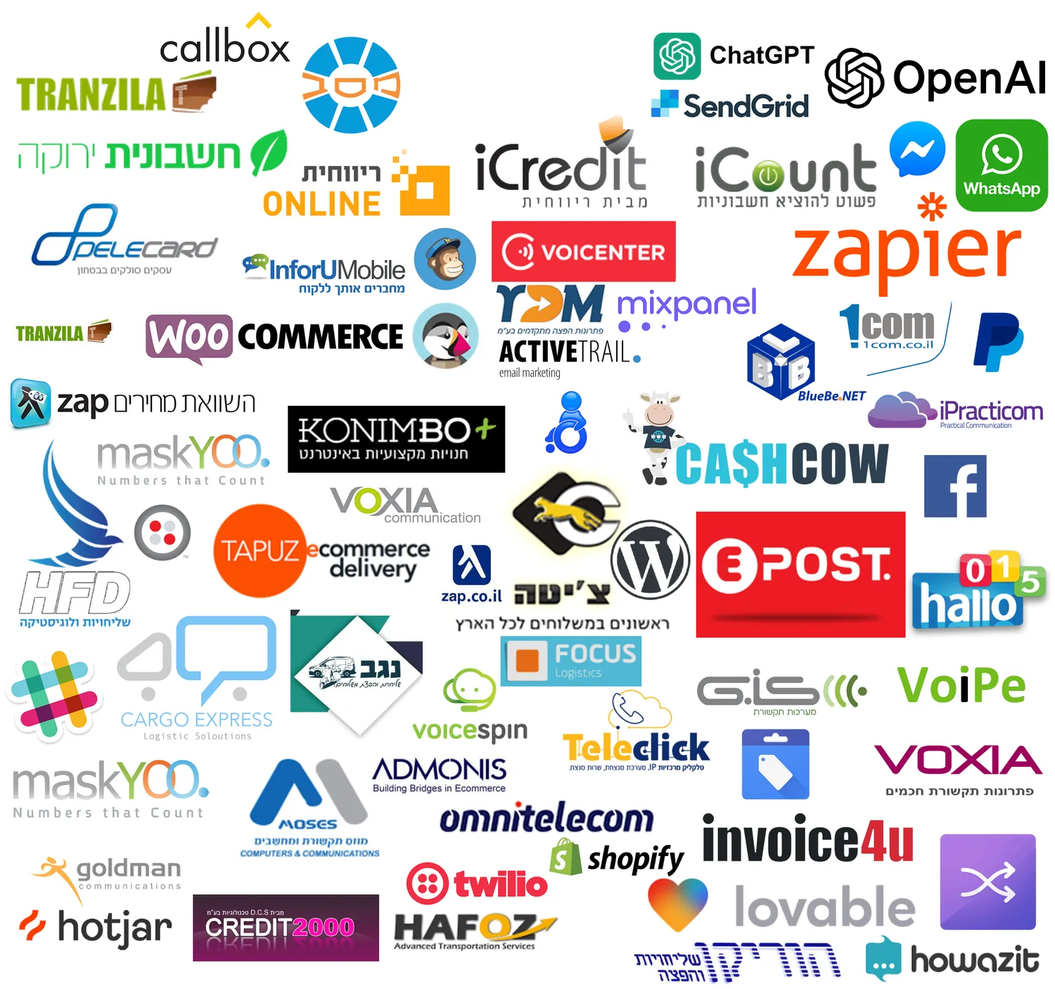
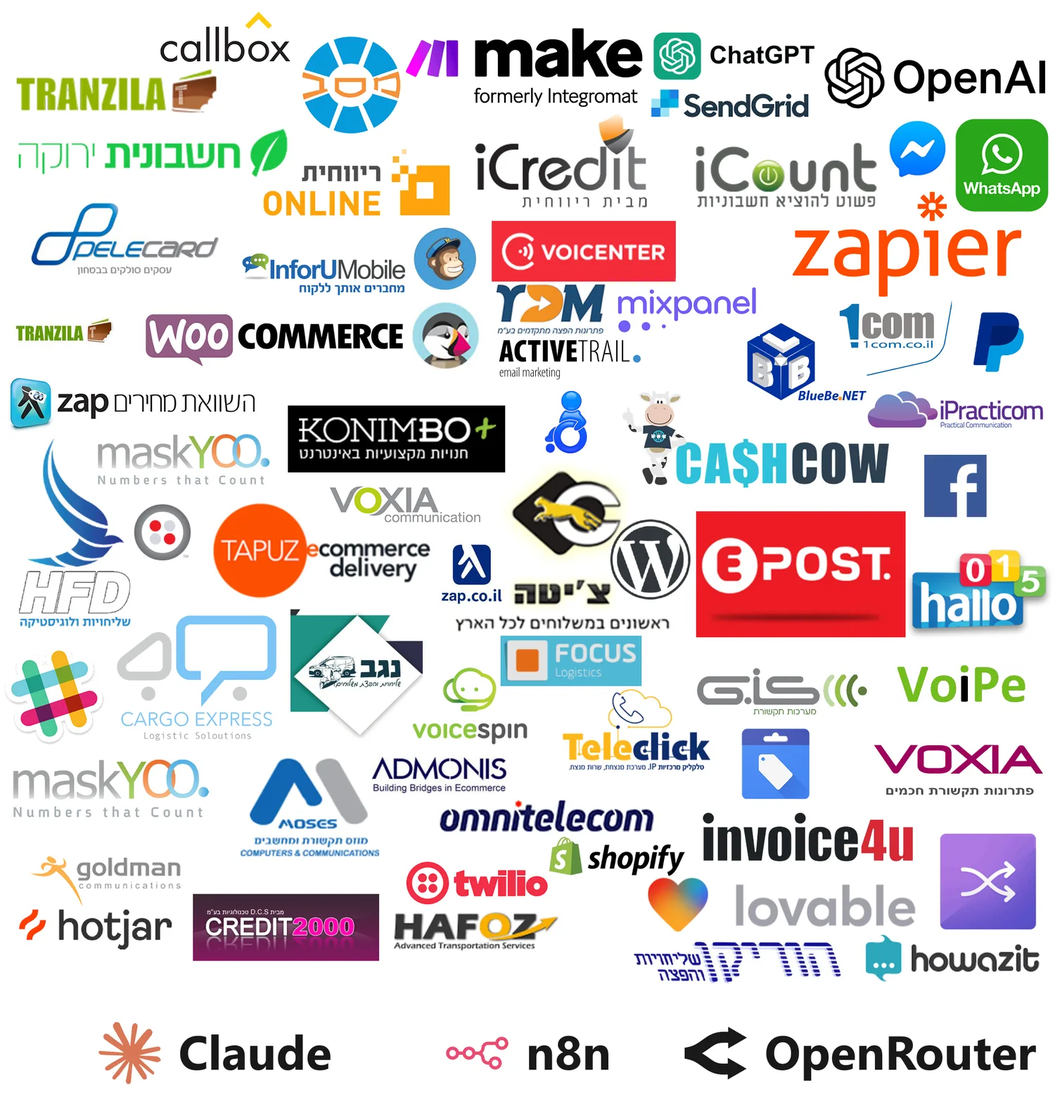
Case study: Ida's Home; loyalty cards, contact card, partners collage update

diff --git a/case-study.html b/case-study.html
@@ -3,16 +3,16 @@
 <head>
 <meta charset="utf-8">
 <meta name="viewport" content="width=device-width, initial-scale=1">
-<title>מקרה בוחן: הטמעת מערכת CRM ואוטומציה בחברה של 50 עובדים – L-Be</title>
-<meta name="description" content="סיפור בנקודות, על מהפך ועל חברה שבחרה לעשות אותו בכל הכוח: המערכת שבנה לירון ביאלקוביץ (Liron Bialkovich) והתוצאות אחרי שנה.">
+<title>מקרה בוחן: הבית של עידה – CRM ומערכת AI לכל אגפי החברה | L-Be</title>
+<meta name="description" content="מקרה בוחן של לירון ביאלקוביץ (Liron Bialkovich): מערכת ה-CRM של הבית של עידה, מערכת ה-AI שמחוברת לכל האגפים, והאפליקציות העסקיות שנבנו על בסיסה.">
 <meta name="author" content="לירון ביאלקוביץ (Liron Bialkovich)">
 <meta name="robots" content="index, follow, max-snippet:-1, max-image-preview:large, max-video-preview:-1">
 <meta name="theme-color" content="#f3f5f8">
 <link rel="canonical" href="https://l-be.com/case-study">
 <meta property="og:type" content="article">
 <meta property="og:locale" content="he_IL">
-<meta property="og:title" content="מקרה בוחן: הטמעת מערכת CRM ואוטומציה בחברה של 50 עובדים – L-Be">
-<meta property="og:description" content="סיפור בנקודות, על מהפך ועל חברה שבחרה לעשות אותו בכל הכוח: המערכת שבנה לירון ביאלקוביץ (Liron Bialkovich) והתוצאות אחרי שנה.">
+<meta property="og:title" content="מקרה בוחן: הבית של עידה – CRM ומערכת AI לכל אגפי החברה | L-Be">
+<meta property="og:description" content="מקרה בוחן של לירון ביאלקוביץ (Liron Bialkovich): מערכת ה-CRM של הבית של עידה, מערכת ה-AI שמחוברת לכל האגפים, והאפליקציות העסקיות שנבנו על בסיסה.">
 <meta property="og:url" content="https://l-be.com/case-study">
 <meta property="og:image" content="https://l-be.com/og.png">
 <meta property="og:image:width" content="1200">
@@ -23,7 +23,7 @@
 <link rel="preconnect" href="https://fonts.gstatic.com" crossorigin>
 <link rel="stylesheet" href="https://fonts.googleapis.com/css2?family=Frank+Ruhl+Libre:wght@700;900&family=IBM+Plex+Mono:wght@500&family=IBM+Plex+Sans+Hebrew:wght@400;500;600;700&display=swap">
 <link rel="stylesheet" href="style.css">
-<script type="application/ld+json">{"@context":"https://schema.org","@graph":[{"@type":"Organization","@id":"https://l-be.com/#organization","name":"L-Be","alternateName":"SubK","url":"https://l-be.com/","logo":"https://l-be.com/logo.png","description":"ייעוץ והטמעת מערכות CRM, AI ואוטומציה עסקית לחברות.","slogan":"הטמעת מערכות CRM ו-AI לחברות","areaServed":{"@type":"Country","name":"Israel"},"knowsAbout":["CRM","AI agents","Business process automation","Systems integration","מערכות CRM","סוכני AI","אוטומציה עסקית"],"founder":{"@id":"https://l-be.com/liron-bialkovich#person"},"sameAs":["https://www.linkedin.com/in/liron-bialkovich-2508a286","https://subk.co.il/"],"contactPoint":{"@type":"ContactPoint","contactType":"sales","url":"https://l-be.com/#contact","availableLanguage":["he","en"]},"hasOfferCatalog":{"@type":"OfferCatalog","name":"פתרונות","itemListElement":[{"@type":"Offer","itemOffered":{"@type":"Service","name":"סוכני AI מתקדמים","provider":{"@id":"https://l-be.com/#organization"}}},{"@type":"Offer","itemOffered":{"@type":"Service","name":"ניהול והקמת מערכי CRM","provider":{"@id":"https://l-be.com/#organization"}}},{"@type":"Offer","itemOffered":{"@type":"Service","name":"אוטומציה עסקית","provider":{"@id":"https://l-be.com/#organization"}}},{"@type":"Offer","itemOffered":{"@type":"Service","name":"ממשק לכל מערכת עם API","provider":{"@id":"https://l-be.com/#organization"}}},{"@type":"Offer","itemOffered":{"@type":"Service","name":"לוחות ניהול ודו\"חות עבודה","provider":{"@id":"https://l-be.com/#organization"}}},{"@type":"Offer","itemOffered":{"@type":"Service","name":"ניהול מכירות ושיווק A-Z","provider":{"@id":"https://l-be.com/#organization"}}},{"@type":"Offer","itemOffered":{"@type":"Service","name":"הקמה וניהול כל אופרציה","provider":{"@id":"https://l-be.com/#organization"}}},{"@type":"Offer","itemOffered":{"@type":"Service","name":"הדרכות והכשרות ליווי מלא","provider":{"@id":"https://l-be.com/#organization"}}}]}},{"@type":"Person","@id":"https://l-be.com/liron-bialkovich#person","name":"לירון ביאלקוביץ","alternateName":"Liron Bialkovich","givenName":"Liron","familyName":"Bialkovich","jobTitle":"יועץ ומפתח עצמאי: CRM, AI ואוטומציה","description":"לירון ביאלקוביץ הוא יועץ ומפתח עצמאי שבונה לחברות מערכות AI, אוטומציות ומערכות CRM. ב-L-Be הוא מאפיין, מקים ומטמיע מערכות CRM, פתרונות AI ותהליכים אוטומטיים.","image":"https://l-be.com/liron-bialkovich.jpg","url":"https://l-be.com/liron-bialkovich","mainEntityOfPage":"https://l-be.com/liron-bialkovich","worksFor":{"@id":"https://l-be.com/#organization"},"knowsAbout":["CRM","AI agents","Business process automation","Systems integration","מערכות CRM","סוכני AI","אוטומציה עסקית"],"knowsLanguage":["he","en"],"sameAs":["https://www.linkedin.com/in/liron-bialkovich-2508a286","https://www.facebook.com/LironBia","https://www.youtube.com/@lironbialkovich679","https://github.com/lironbia","https://subk.co.il/"]},{"@type":"WebSite","@id":"https://l-be.com/#website","url":"https://l-be.com/","name":"L-Be","description":"ייעוץ והטמעת מערכות CRM, AI ואוטומציה עסקית לחברות.","inLanguage":"he","publisher":{"@id":"https://l-be.com/#organization"}},{"@type":"WebPage","@id":"https://l-be.com/case-study#webpage","url":"https://l-be.com/case-study","name":"מקרה בוחן","inLanguage":"he","isPartOf":{"@id":"https://l-be.com/#website"},"about":{"@id":"https://l-be.com/#organization"},"author":{"@id":"https://l-be.com/liron-bialkovich#person"},"breadcrumb":{"@type":"BreadcrumbList","itemListElement":[{"@type":"ListItem","position":1,"name":"L-Be","item":"https://l-be.com/"},{"@type":"ListItem","position":2,"name":"מקרה בוחן","item":"https://l-be.com/case-study"}]}}]}</script>
+<script type="application/ld+json">{"@context":"https://schema.org","@graph":[{"@type":"Organization","@id":"https://l-be.com/#organization","name":"L-Be","alternateName":"SubK","url":"https://l-be.com/","logo":"https://l-be.com/logo.png","description":"ייעוץ והטמעת מערכות CRM, AI ואוטומציה עסקית לחברות.","slogan":"הטמעת מערכות CRM ו-AI לחברות","areaServed":{"@type":"Country","name":"Israel"},"knowsAbout":["CRM","AI agents","Business process automation","Systems integration","מערכות CRM","סוכני AI","אוטומציה עסקית"],"founder":{"@id":"https://l-be.com/liron-bialkovich#person"},"sameAs":["https://www.linkedin.com/in/liron-bialkovich-2508a286","https://subk.co.il/"],"contactPoint":{"@type":"ContactPoint","contactType":"sales","url":"https://l-be.com/#contact","availableLanguage":["he","en"]},"hasOfferCatalog":{"@type":"OfferCatalog","name":"פתרונות","itemListElement":[{"@type":"Offer","itemOffered":{"@type":"Service","name":"סוכני AI מתקדמים","provider":{"@id":"https://l-be.com/#organization"}}},{"@type":"Offer","itemOffered":{"@type":"Service","name":"ניהול והקמת מערכי CRM","provider":{"@id":"https://l-be.com/#organization"}}},{"@type":"Offer","itemOffered":{"@type":"Service","name":"אוטומציה עסקית","provider":{"@id":"https://l-be.com/#organization"}}},{"@type":"Offer","itemOffered":{"@type":"Service","name":"ממשק לכל מערכת עם API","provider":{"@id":"https://l-be.com/#organization"}}},{"@type":"Offer","itemOffered":{"@type":"Service","name":"לוחות ניהול ודו\"חות עבודה","provider":{"@id":"https://l-be.com/#organization"}}},{"@type":"Offer","itemOffered":{"@type":"Service","name":"ניהול מכירות ושיווק A-Z","provider":{"@id":"https://l-be.com/#organization"}}},{"@type":"Offer","itemOffered":{"@type":"Service","name":"הקמה וניהול כל אופרציה","provider":{"@id":"https://l-be.com/#organization"}}},{"@type":"Offer","itemOffered":{"@type":"Service","name":"הדרכות והכשרות ליווי מלא","provider":{"@id":"https://l-be.com/#organization"}}}]}},{"@type":"Person","@id":"https://l-be.com/liron-bialkovich#person","name":"לירון ביאלקוביץ","alternateName":"Liron Bialkovich","givenName":"Liron","familyName":"Bialkovich","jobTitle":"יועץ ומפתח עצמאי: CRM, AI ואוטומציה","description":"לירון ביאלקוביץ הוא יועץ ומפתח עצמאי שבונה לחברות מערכות AI, אוטומציות ומערכות CRM. ב-L-Be הוא מאפיין, מקים ומטמיע מערכות CRM, פתרונות AI ותהליכים אוטומטיים.","image":"https://l-be.com/liron-bialkovich.jpg","url":"https://l-be.com/liron-bialkovich","mainEntityOfPage":"https://l-be.com/liron-bialkovich","worksFor":{"@id":"https://l-be.com/#organization"},"knowsAbout":["CRM","AI agents","Business process automation","Systems integration","מערכות CRM","סוכני AI","אוטומציה עסקית"],"knowsLanguage":["he","en"],"sameAs":["https://www.linkedin.com/in/liron-bialkovich-2508a286","https://www.facebook.com/LironBia","https://www.youtube.com/@lironbialkovich679","https://github.com/lironbia","https://subk.co.il/"]},{"@type":"WebSite","@id":"https://l-be.com/#website","url":"https://l-be.com/","name":"L-Be","description":"ייעוץ והטמעת מערכות CRM, AI ואוטומציה עסקית לחברות.","inLanguage":"he","publisher":{"@id":"https://l-be.com/#organization"}},{"@type":"WebPage","@id":"https://l-be.com/case-study#webpage","url":"https://l-be.com/case-study","name":"מקרה בוחן: הבית של עידה","inLanguage":"he","isPartOf":{"@id":"https://l-be.com/#website"},"about":{"@id":"https://l-be.com/#organization"},"author":{"@id":"https://l-be.com/liron-bialkovich#person"},"breadcrumb":{"@type":"BreadcrumbList","itemListElement":[{"@type":"ListItem","position":1,"name":"L-Be","item":"https://l-be.com/"},{"@type":"ListItem","position":2,"name":"מקרה בוחן: הבית של עידה","item":"https://l-be.com/case-study"}]}}]}</script>
 <meta property="og:site_name" content="L-Be">
 </head>
 <body>
@@ -42,117 +42,104 @@
 <main>
 <section class="page-hero">
   <div class="wrap">
-    <p class="label">מקרה בוחן · לקוח מספר 1 שלי</p>
-    <h1 class="display">סיפור &quot;בנקודות&quot;, על מהפך ועל חברה שבחרה לעשות אותו בכל הכוח.</h1>
+    <div class="split">
+      <div class="hero-text">
+        <p class="label">מקרה בוחן · הבית של עידה</p>
+        <h1 class="display">CRM של כל החברה, ומעליו מערכת AI שמחוברת לכל האגפים</h1>
+        <p class="lead">הקמתי להם את ה-CRM של כל החברה, ועל בסיסו בנינו מערכת AI ואפליקציות עסקיות למחסן, למשלוחים, למכירות ולהנהלה.</p>
+      </div>
+      <img class="art blend" data-parallax="-0.04" src="art/core.webp" alt="איור: קוביה מרכזית שמחוברת בקווים מקווקווים לשישה מודולים סביבה" width="900" height="900">
+    </div>
     <ul class="kpis">
-      <li><b>35%</b><span>קצב העסקאות עלה משמעותית</span></li>
-      <li><b>40%</b><span>פחות ביטולים ואי שביעות רצון</span></li>
-      <li><b>20%</b><span>ייעול כוח אדם (יותר עבודה, פחות אנשים)</span></li>
-      <li><b>50%</b><span>צמצום בזמנים, תפעול מהיר יותר</span></li>
-      <li><b>20%</b><span>עלייה ברווחיות</span></li>
+      <li><b>30</b><span>עובדים בשבעה אגפים</span></li>
+      <li><b>116</b><span>סטטוסים ב-16 שלבים בתהליך ההזמנה</span></li>
+      <li><b>20</b><span>סוגי סוכני AI</span></li>
+      <li><b>43</b><span>מסכים במערכת ה-AI</span></li>
+      <li><b>18,119</b><span>מוצרים קיבלו מדבקת ברקוד, בלי אף כשל</span></li>
     </ul>
   </div>
 </section>
 <section class="section on-surface">
   <div class="wrap">
     <div class="prose">
-<p>נשמור על השם אנונימי, אבל נתמקד בעיקר. מדובר כאן בחברה צעירה בת 50 עובדים שכל אחד מהם רגיל לעשות הכל מהכל.</p>
-<p>החברה משווקת שטחי מסחר דיגיטליים באתרים המוכרים וברשת הטלוויזיה הישראלית. על בסיס שטחי מסחר אלו ועבור לקוחותיה, מפיקה החברה כתבות תוכן/ווידאו/חסויות - החל מכתיבת התוכן ועד צילום העסק, הכל מופק ומנוהל בתוך החברה 360°.</p>
-<p>עד כה הכל היה ידני מול אקסל: מכירה, מעקב, גביה, הנה&quot;ח, תיאום, הפקה, פרסום, כתיבה.. הכל ידני ומקווים לטוב. זה כבר לא ככה (הכל, כל מה שרק אפשר, עשינו שיעבוד מעצמו).</p>
-<p>אנסה לתאר את המערכת שבניתי להם, את עיקרה — החל מהרגע שהם מתעוררים בבוקר ועד שהמערכת הולכת לישון :)</p>
-<h2>מה עושים הנציגים?</h2>
-<p>כל פעולה שאנשי המכירות עושים - מתועדת ומבוקרת, אם הם נרדמים, או שהם חזקים היום על המכירות - אנחנו יודעים את זה בזמן אמת.</p>
-<h3>שילוב של הטלפוניה עם האתר, הוואטסאפ והמערכת</h3>
-<p>מעכשיו כל שיחה יוצאת או נכנסת - מתועדת, מוקלטת, ממויינת ומופיעה בהיסטוריה של התקשורת עם הלקוח - לכל מקום שנלך איתו.</p>
-<h3>לחשוב על מה שעשינו אתמול?</h3>
-<p>איפהה.. בלחץ הזה בקושי יודעים מה עושים עכשיו, וגם לא צריך. בשביל זה המערכת קיימת: מעקבים על לידים שבא לנו לסגור בהמשך, או כאלו שצריך לסגור ולא נסגרו, או כאלו שקיבלו הצעה ולא התקדמו, או כאלו שהתקדמו ולא שולמו, ואינספור מקרים בהם אנחנו היינו צריכים לחשוב והמערכת עשתה את זה בשבילנו, ולפני שבכלל הפעלנו את הראש.</p>
-<h2>סגירת עסקה</h2>
-<p>מבין כל אלו המתעניינים צריך לשלוף את האשראי לא? כל סוגי התשלום מתקבלים, בסופו של דבר איש המכירות לוחץ על כפתור ומזין אשראי - משם רוב העסקה הולכת לבד.</p>
-<h3>מקום אחד, פעולה אחת</h3>
-<p>מעדכנים את פרטי העסקה ומזינים אשראי, מאשרים? הכל רץ: המערכת מעדכנת שנסגרה העסקה, כמה גבינו, כמה נשאר לגביה, מעדכנת סטטוס בהתאם, שולחת ללקוח אימייל והודעת וואטסאפ עם הקבלה שהונפקה ובנוסף מאשרת את תיאום הכתבה ללקוח שהזמין כתבה וכדומה.</p>
-<p>אוקיי לקחנו כסף (מקדמה, תשלום מלא) — עצם ביצוע הגביה הראשונית פתחה את ההרשאה לתאם ללקוח ראיון עבור הכתבה שהזמין.</p>
-<h2>תיאום הפקה</h2>
-<p>הנציג מתאם ללקוח ראיון מול עורך תוכן (+ יום צילומים באולפן אם הזמין כתבת ווידאו).</p>
+<h2>החברה</h2>
+<p>הבית של עידה היא חברת ריהוט ועיצוב לבית: ספות, כורסאות, שטיחים, תאורה, אחסון, טקסטיל ואביזרים, וגם וילונות, התקנה, שירות וייעוץ בעיצוב פנים. היא מוכרת בשואו-רום בתיאום מראש ובחנות אינטרנט.</p>
+<p>יש בה 30 עובדים ושבעה אגפים: מכירות, לוגיסטיקה ונגרייה, שירות לקוחות, כספים, שיווק ודיגיטל, מעצבים והנהלה. אני מנהל את מערכת <span class="nb">ה-CRM</span> שלהם <span class="nb">מ-2017</span>.</p>
+<h2>מאיפה התחלנו</h2>
 <ul>
-<li>מצד אחד - העורכים והאולפנים מזינים אל המערכת אפשרויות ליומן, בעצם: מתי הם זמינים לראיונות / צילומים.</li>
-<li>מצד שני - אל היומן מתווספים כל הראיונות והצילומים שנקבעו, מקובצים לפי העורך או האולפן וככה הנציג בקליק אחד רואה מי ומתי זמינים ומתי לא כמובן.</li>
+<li>מידע על מוצר היה מפוזר, בלי מקור אחד.</li>
+<li>קליטה וליקוט במחסן היו איטיים.</li>
+<li>חיפוש מוצר בזמן מכירה היה איטי, וכפילויות בקטלוג גרמו לבחירה שגויה.</li>
+<li>הזמנות לנגרייה יצאו כשרטוט שנסרק ידנית.</li>
 </ul>
-<p>עצם זה שהנציג לחץ על נקודה ביומן, זה כבר מזין את כל הפרטים לכרטיס התיאום והנציג רק צריך לאשר.</p>
-<h3>עכשיו בעצם כל התהליך האמיתי מתחיל</h3>
-<p>לא בשביל איש המכירות, הוא כבר בעסקה הבאה - המערכת עושה את הכל לבד ומשם הכדור בידיים של מנהלי ההפקה.</p>
-<h3>מזכירה אישית לכל עורך, אולפן ואפילו לכל לקוח</h3>
-<p>עצם התיאום שולח לעורך את הראיון לאישורו המהיר. אם צץ לו משהו מיוחד, הוא מסלים את זה למחלקת התיאום שמתאמת מחדש. אם מאשר כמצופה ממנו - המערכת מעדכנת את הלקוח כי הראיון אושר ומכינה אותו לקראתו:</p>
+<p>מבחן ההצלחה שהחברה הגדירה לפרויקט: &quot;אם הצוות עדיין רודף אחרי לקוחות, סטטוסים, משלוחים, מחירונים ומסמכים, הפרויקט נכשל&quot;.</p>
+<h2>מערכת <span class="nb">ה-CRM</span></h2>
+<p>הקמתי את <span class="nb">ה-CRM</span> של החברה מאפס: ישויות, שדות, תהליכים, סטטוסים, אוטומציות ותבניות.</p>
 <ul>
-<li>אם זה בהשלמת מידע נחוץ / תמונות לטופס השלמת מידע.</li>
-<li>אם זה במסמך עזר להתכוננות לראיון.</li>
-<li>או בתזכורת לפני הראיון כדי שכולם יהיו כמה שיותר מוכנים.</li>
+<li><strong>ישויות:</strong> לקוח, ספק, מוצר, הזמנה, שורת הזמנה, הזמנה מספק, תשלום ומסמך חשבונאי. לכל אחת שדות מותאמים: 98 ללקוח, 97 להזמנה <span class="nb">ו-336</span> למוצר.</li>
+<li><strong>התהליך של שורת הזמנה:</strong> 116 סטטוסים <span class="nb">ב-16</span> שלבים. המסלול הראשי: מכירה, הזמנה מספק, קליטה, מלאי, תיאום משלוח, משלוח, נמסר. לצידו מסלולים לתיקון אצל ספק, להחזרה לספק, להחזרה מלקוח, לביטול ולייעוץ ופרויקטים.</li>
+<li><strong>תבניות:</strong> <span class="nb">כ-67</span> הודעות וואטסאפ ו<span class="nb">כ-55</span> מיילים.</li>
+<li><strong>חיבורים:</strong> חנות האינטרנט והנהלת החשבונות מזרימות נתונים <span class="nb">ל-CRM</span>.</li>
 </ul>
-<p>בסיום הכתיבה העורך מעלה אל המערכת את תכניה המלאים והיא עוברת אוטומטית אל השלב הבא (לעורך יש ממשק משלו לניהול כתבות).</p>
-<h2>שלב הצילומים — ניהול תהליכים חוצה מחלקות</h2>
-<p>מיד כשהעורך השלים את עבודת הכתיבה והעלה את תוכנה המאושר אל המערכת, במידה ומדובר בהפקת אולפן - החומרים עוברים אל מפיק האולפן אשר מתכונן לפי זה אל יום הצילומים.</p>
-<p>הלקוח מקבל הודעת תזכורת בשם האולפן בצירוף תסריט מקדים להפקת הווידאו ככה שהלקוח יוכל להתכונן.</p>
-<h3>ניהול אולפנים וצמצום פאשלות</h3>
-<p>לכל אולפן יש ממשק משלו בו הוא מנהל / צופה בלו&quot;ז שלו ובכל כתבות הווידאו העתידיות או אלו שממתינות להשלמת הפקה. בסיום ההפקה האולפן מעלה אל המערכת את הכתבה המוכנה והיא עוברת אוטומטית אל שלב ההמתנה לפרסום.</p>
-<h2>השלמת גביה — רגע לפני שמפרסמים את הכתבה</h2>
-<p>במידה ועסקה מתקרבת להשלמתה (כתבה שממתינה לפרסום) המערכת בודקת האם התקבל תשלום מלא עבור הכתבה הזו - שלא יקרה מצב בו כתבה מתפרסמת ללא אישור מהגביה:</p>
+<h3>אוטומציות לפי אגף</h3>
 <ul>
-<li>אם מלכתחילה נגבה הכל - אין מה להתעכב בכלל.</li>
-<li>אם סוכם על מקדמה / לא נגבה הכל - המערכת מעכבת את הפרסום ומפנה את התהליך אל מחלקת הגביה שתשלים את ביצוע הגביה ותיתן אישור למחלקת הפרסום.</li>
+<li><strong>מכירות ושירות:</strong> הודעת פתיחה בוואטסאפ לפי השעה ומקור הפנייה, עדכון ללקוח שבועיים אחרי התשלום, ובקשת משוב שמגיעה למנהל הכללי.</li>
+<li><strong>רכש:</strong> שליחת הזמנה או הצעת מחיר לספק מקדמת את הסטטוס לבד. מוצר מושהה פותח משימה מתוזמנת.</li>
+<li><strong>לוגיסטיקה:</strong> SMS ללקוח כשההזמנה מוכנה לאיסוף.</li>
+<li><strong>דוחות:</strong> דוח שבועי לספקים על הזמנות, תיקונים ומשלוחים פתוחים, דוח חודשי על מוצרים שהוזמנו, <span class="nb">ו-SMS</span> יומי לבעלים עם סיכום ההכנסות.</li>
 </ul>
-<p>בסופו של דבר העובדים רצים על הדוחות שלהם: לכל בעל תפקיד יש את הדוחות שלו ואת הפילוחים / חיתוכים עליהם הוא עובד / אחראי. בכל דוח או פילוח ישנן הכתבות לקוחות בהם יש לטפל ולפי סוג עבודה / כובע (לעובד אחד יכולים להיות מספר תפקידים כמובן).</p>
-<h2>פרסום ומשובים</h2>
-<p>כתבה מוכנה + מאושרת לפרסום? המפרסם מקבל את היעדים שלו לפרסום יומי / שבועי / חודשי ולפי זה עובר על רשימת הכתבות שממתינות לפרסום ודואג לפרסם אותן.</p>
-<p>כשמעלה את הפרסום, מעדכן במערכת את הקישור לכתבה שבאוויר וזו מעדכנת את הלקוח ומכווינה אותו לפפות בכתבה שלו:</p>
+<h2>מערכת <span class="nb">ה-AI</span></h2>
+<p>מעל המערכות הקיימות בנינו אתר פנימי מאובטח, במחשב ובנייד. שואלים בעברית חופשית ומקבלים תשובה שמבוססת על נתוני החברה. המערכת לא מחליפה את <span class="nb">ה-CRM</span> ואת הנהלת החשבונות. היא יושבת מעליהם.</p>
+<p>שני עקרונות מנחים אותה:</p>
 <ul>
-<li>על הדרך מעודדת אותו לשווקה ברשת.</li>
-<li>יחד עם זאת מבקשת ממנו להשיב למשוב מהיר וידידותי.</li>
+<li>לכל נתון יש מקור אמת אחד.</li>
+<li><span class="nb">ה-AI</span> מציע. כתיבה למערכת אחרת מותרת רק לפי כלל מוגדר ובאישור של אדם.</li>
 </ul>
-<h3>משתמשים בכל התקשרות כדי למכור, לשווק וללמוד</h3>
-<p>במשוב אנו מכשירים את הלקוח להיות סוג של משווק שלנו (שגריר) - אנו מציעים לו להרוויח כסף מהפניות טובות ואפילו להזין לנו לידים חדשים שהוא ממליץ לנו להציע להם גם כן כתבה עם שובר מתנה שהעניק הלקוח המפנה (מפרגנים לו מול חבר שלו על הדרך).</p>
+<h3>למה היא מחוברת</h3>
 <ul>
-<li>יודעים לזהות מי המפנה ולתגמל בהתאם.</li>
-<li>יודעים לזהות לקוחות מרוצים או לא מרוצים ולפעול בהתאם.</li>
+<li><strong><span class="nb">ה-CRM</span>:</strong> קריאה עם עדכון כמעט מיידי.</li>
+<li><strong>הנהלת החשבונות:</strong> קריאה בלבד, פעם ביום.</li>
+<li><strong>מאגר מסמכים פנימי:</strong> עם חיפוש לפי משמעות.</li>
 </ul>
-<p>מכירים את המושג &quot;כסף על הרצפה&quot;? פשוטו כמשמעו, לכל חברה יש המון כסף על הרצפה, רק צריך ללמוד איך לאסוף אותו (או לקצור, תלוי בסוג הכסף):</p>
+<h3>מה היא יודעת לעשות</h3>
 <ul>
-<li>כל לקוח שהזמין - סיכוי גבוה שיזמין שוב.</li>
-<li>כל לקוח מרוצה - אפשר למכור לו עוד.</li>
-<li>כל לקוח לא מרוצה - אפשר לשמר וגם לו אפשר למכור.</li>
-<li>בכל עסק זה שונה אבל: מי שהזמין X - כנראה שיתאים לו להזמין את Y לאחר מכן (לכל מוצר יש שיטתיות).</li>
+<li><strong>ניתוב:</strong> שאלה שיש לה דוח שמור נענית מיד. בקשה מורכבת הופכת למשימת רקע, עם תוכנית ושאלות הבהרה.</li>
+<li><strong>20 סוגי סוכנים:</strong> בין השאר סוכן נתונים, ספרן של מאגר הידע, ניהול פרויקטים, בניית דשבורדים, בדיקה לילית של שיחות ומאמן לניסוח שאלות.</li>
+<li><strong>מילון עסקי של 115 מונחים:</strong> כל מספר שסוכן מחזיר נשען על הגדרה כתובה.</li>
+<li><strong>&quot;בוא נדייק&quot;:</strong> כשהמערכת לא מבינה נתון היא שואלת, והתשובה נכנסת למילון.</li>
+<li><strong>&quot;יש לי הערה&quot;:</strong> כפתור בכל מסך. 99 הערות נאספו עד תחילת אוקטובר 2026.</li>
 </ul>
-<h3>למה שזה לא יהיה אוטומטי?</h3>
-<p>מרגע שהנציג רכש את לבו של הלקוח, המערכת יודעת לפנות אל הלקוח בשמו ובשפה המתאימה לו ולהציע לו לשדרג את העסקה שלו בצורה הולמת. כמובן אם רוצה, בזמן אמת זה מחבר את הנציג שיסגור את הפינות האנושיות ויראה ללקוח סימן חיים.</p>
-<h2>מנהלים, משחררים, מבקרים, מתקנים</h2>
-<p>כל התהליכים המורכבים האלו מצריכים מלא בקרה. מלבד דוחות העבודה שמנחים כל בעל תפקיד מה לעשות ובהתאם לשיטת העבודה שלו, למנהלים יש דוחות על שסוקרים את העבודה ומראים תמונה כוללת של התהליכים משלל הסתכלויות.</p>
-<p>המטרה היחידה: חוות דעת. יש דוחות לריכוז נתונים - זה סוג אחד - שלבו הראשון של דוח. ויש דוחות ניהול - ששם לא מתמקדים במיקרו אלא בתכלס (Insights, Action Items).</p>
-<p>למשל: לא מעניין שיש 40 דחיות, מעניין קצב הגדילה שלהן, האם יש מישהו ספציפי שדוחה במיוחד, מעניין מה הנפח שלהן מסך הפעילות בזמן קצוב, מעניין מהו הגורם המרכזי לדחיות ומעניין תכלס - מה צריך לעשות כדי להיפתר מהן.</p>
-<p>לדוגמא: אפשר לראות שמתוך הדחיות, רובן הגיעו מטעם הלקוח שלא היה פנוי באותה העת וביקש להזיז. במקרה כזה ניתן להגדיר חוק שיציע למנהל להדק מול אנשי המכירות את הבירור מול הלקוח את זמינותו בשעה שנקבעה + לאשר התייצבות לשיחה בצורה אוטומטית + לאפשר למבצע השיחה לדחות / לתאם את הראיון החדש בעצמו מבלי להעמיס על מחלקת התיאום.</p>
-<h2>טוב, אחלה מערכת וזה, אבל מדובר <span class="nb">ב-50</span> עובדים, לך תטמיע את זה עכשיו אצל כולם</h2>
-<p>אז זהו שזה מורכב, אבל אני לוקח את זה על עצמי. חוץ מלבנות להם מערכת מותאמת אישית, עשיתי (ועוד עושה) להם כמה דברים:</p>
-<h3>מחקר, תכנון וניתוח צרכים</h3>
-<p>יומיום אני למד את תהליכי העסק ואת הרציונל שמאחוריהם באמצעות עבודה צמודה עם כל בעלי התפקידים (לאט לאט הופכים לחברים טובים).</p>
-<h3>אפיון</h3>
-<p>בעזרת ההכרות והטווח הארוך, אנו למדים יחד ומהדקים את האפיון של העסק =&gt; התהליכים =&gt; הניהול =&gt; ההדרכה.</p>
-<h3>הוצאה לפועל</h3>
-<p>אני בונה את התהליכים בעצמי בסוף, ככה שאני מכיר את הכל מבפנים - בלי טלפונים שבורים.</p>
-<h3>הטמעה, הדרכה וליווי</h3>
-<p>אחת לשבוע אני מגיע אל המשרד לשבת עם האנשים, להרגיש את העבודה שלהם, להדריך אותם ולחזק את היכולות (שלהם, של המערכת - של השילוב ביניהם).</p>
-<h3>מידול</h3>
-<p>בשיתוף פעולה עם כל בעלי הדעה והבעלים של העסק, אנו מוצאים את השיטה הטובה ביותר לניהול העסק ומטמיעים את זה במערכת כדי שהשיטה תישמר.</p>
-<h3>מסחור</h3>
-<p>ברגע שעולים על הגל של השיטה והניהול, יחד, תוך כדי עבודה קשה - מרימים הילוך ומכניסים מלא מטבעות למכונה המשומנת שבנינו כדי שתוציא לקוחות מרוצים.</p>
-<p>(רוב הפואנטה של מהלכים שכאלו זה להגדיל את העסק ו/או לגרום לו לעבוד חלק ככל האפשר - בקצב גבוה, במינימום משאבים)</p>
-<h2>והנה עברה שנה מאז שהתחלנו — קצת נתונים בשביל הפרופורציה</h2>
+<h3>בקרה</h3>
+<p>כניסה בסיסמה ובקוד חד-פעמי, בלי הרשמה עצמית. הרשאות לפי תפקיד. הסוכן קורא את הנתונים בהרשאת קריאה בלבד, ופרטים מזהים מוסתרים לפני שהם מגיעים למודל. כל פעולה נרשמת.</p>
+<h2>אפליקציות עסקיות על בסיס המערכת</h2>
 <ul>
-<li><strong>35%</strong> — קצב העסקאות עלה משמעותית</li>
-<li><strong>40%</strong> — פחות ביטולים ואי שביעות רצון</li>
-<li><strong>20%</strong> — ייעול כוח אדם (יותר עבודה, פחות אנשים)</li>
-<li><strong>50%</strong> — צמצום בזמנים, תפעול מהיר יותר</li>
-<li><strong>20%</strong> — עלייה ברווחיות</li>
+<li><strong>סורק המחסן:</strong> סריקה בנייד לקליטה מספק, לליקוט ויציאה למשלוח, ולהחזרות. הסריקה מדווחת <span class="nb">ל-CRM</span>, ושם האוטומציות מקדמות את הסטטוס. אם <span class="nb">ה-CRM</span> דוחה סריקה, העובד רואה למה.</li>
+<li><strong>מדבקות ברקוד:</strong> מדבקה לכל פריט, שנוצרת מהנתון העדכני בכל פתיחה.</li>
+<li><strong>ניהול משלוחים ואפליקציית שליחים:</strong> שיבוץ שליחים ותכנון מסלול. לשליח: לוח יומי ותיעוד מסירה בתמונה ובחתימה. ללקוח: קישור לבחירת מועד המשלוח.</li>
+<li><strong>קופה:</strong> סל ותשלום בכרטיס, במזומן או בקישור בוואטסאפ, וההזמנה נפתחת <span class="nb">ב-CRM</span>.</li>
+<li><strong>מוצרים משלימים:</strong> קישור לרכישת תוספות להזמנה, שנשלח ללקוח באישור מנהל.</li>
+<li><strong>הנתונים והכסף:</strong> 18 טבלאות, כרטיס הזמנה, ומסכים לתזרים ולגבייה.</li>
+<li><strong>דשבורדים:</strong> המשתמש מבקש במילים, והסוכן בונה.</li>
+<li><strong>ניהול פרויקטים:</strong> לוח משימות עם סוכן.</li>
 </ul>
-<p>בסופו של יום, הכי חשוב זה שבעלי העסק יותר מבלים עם המשפחה שלהם ועם הילדים. מי צריך יותר מזה?</p>
-<p>אני מביא איתי שיטה מעט שונה של &quot;הטמעת מערכות&quot; — כזו שלא תרתיע אף בעל עסק מלהקדיש מזמנו ומשכרו על מנת לשפר ולגדול מבלי שיצטרך כל היום להיות &quot;על זה&quot; (מכל ההיבטים).</p>
-<p>לירון ביאלקוביץ — <a href="liron-bialkovich">קראו עוד עליי</a></p>
+<h2>היקף ולוח זמנים</h2>
+<p>את מערכת <span class="nb">ה-AI</span> התחלנו לתכנן עם הבעלים באמצע אוגוסט 2026. תוך שבועיים עמדו התשתית, האבטחה, מערכת הבסיס והחיבור <span class="nb">ל-CRM</span>. מסוף אוגוסט אנחנו מדייקים נתונים, מכניסים משתמשים ובונים את אפליקציות המחסן והמשלוחים.</p>
+<ul>
+<li>10 ספרינטים ב<span class="nb">כ-7</span> שבועות</li>
+<li><span class="nb">כ-206</span> משימות</li>
+<li><span class="nb">כ-220</span> החלטות מתועדות</li>
+<li>43 מסכים</li>
+</ul>
+<p>האפיון וההכרעות המוצריות שלי. את <span class="nb">ה-CRM</span> הקמתי בעצמי. את הקוד של מערכת <span class="nb">ה-AI</span> כתב סוכן קוד בהנחייתי: אני אישרתי, בדקתי ותיאמתי מול ספק הפלטפורמה.</p>
+<h2>איפה זה עומד היום</h2>
+<p>ההטמעה בעיצומה. המשתמשים הראשונים הם ההנהלה והמחסן.</p>
+<ul>
+<li>בסוף ספטמבר 2026 נכתב <span class="nb">ב-CRM</span> קישור למדבקת ברקוד <span class="nb">ל-18</span>,119 מוצרים, בלי אף כשל.</li>
+<li>עובד מחסן השלים משימה לבד, מהנייד.</li>
+<li>הבעלים מבקש דוח במילים, והסוכן בונה אותו.</li>
+<li>הגדרות שהיו בעל-פה נכתבו במילון אחד.</li>
+</ul>
+<p>זמן שנחסך, מכירות ותפוקה עוד לא נמדדו.</p>
     </div>
     <div class="cta-row">
       <a class="btn" href="./#contact">נדבר עם קפה ביד?</a>

diff --git a/index.html b/index.html
@@ -65,9 +65,9 @@
     </div>
     <img class="art" data-parallax="0.04" src="art/untangle.webp" alt="איור: סבך של קווים וקוביות מפוזרות שמסתדר לערימה מסודרת של בלוקים" width="1344" height="752">
     <ul class="stats light">
-      <li class="stat"><b>13</b><span>שנים רצוף. יש לי לקוחות שאיתי כבר 13 שנים.</span></li>
-      <li class="stat"><b>3%</b><span>אחוז הנטישה שלי, ואני מקפיד לשמור אותו מתחת לזה.</span></li>
-      <li class="stat"><img class="gift" src="art/gift.webp" alt="" width="640" height="640" loading="lazy"><span>הלקוחות שלי מרוצים ואוהבים לעבוד איתי. הם מביאים לי מתנות בחגים, כאילו אני בן משפחה או עובד איתם בחברה.</span></li>
+      <li class="stat"><div class="figure"><b>13</b><small>שנים רצוף</small></div><span>יש לי לקוחות שאיתי כבר 13 שנים.</span></li>
+      <li class="stat"><div class="figure"><b>3%</b><small>נטישה</small></div><span>אחוז הנטישה שלי עומד על 3%, ואני מקפיד לשמור אותו מתחת לזה.</span></li>
+      <li class="stat"><div class="figure"><img src="art/gift.webp" alt="" width="640" height="640" loading="lazy"><small>מתנות בחגים</small></div><span>הלקוחות שלי מרוצים ואוהבים לעבוד איתי. הם מביאים לי מתנות בחגים, כאילו אני בן משפחה או עובד איתם בחברה.</span></li>
     </ul>
   </div>
 </section>
@@ -111,15 +111,15 @@
       <p>בעברי ניהלתי פרויקטים טכנולוגיים בסביבת האינטרנט עבור מאות מותגים: החל מכאלו שאולי בחיים לא תשמעו עליהם ועד לבנקים, מכללות, האח הגדול, רכבת ישראל, שטראוס, דיסני ישראל וכל משרד פרסום גדול שנתקלתי בו בשנים 2013-2015.</p>
     </div>
     <article class="case">
-      <p class="label">מקרה בוחן · לקוח מספר 1 שלי</p>
-      <h3 class="display">חברה בת 50 עובדים שעברה מאקסל למערכת שעובדת מעצמה</h3>
-      <p>עד כה הכל היה ידני מול אקסל: מכירה, מעקב, גביה, הנה"ח, תיאום, הפקה, פרסום, כתיבה. זה כבר לא ככה. והנה עברה שנה מאז שהתחלנו, קצת נתונים בשביל הפרופורציה:</p>
+      <p class="label">מקרה בוחן · הבית של עידה</p>
+      <h3 class="display">CRM של כל החברה, ומעליו מערכת AI שמחוברת לכל האגפים</h3>
+      <p>הבית של עידה: ריהוט ועיצוב לבית, 30 עובדים. הקמתי להם את ה-CRM מאפס, ועל בסיסו בנינו מערכת AI ואפליקציות עסקיות למחסן, למשלוחים, למכירות ולהנהלה.</p>
       <ul class="kpis">
-        <li><b>35%</b><span>קצב העסקאות עלה משמעותית</span></li>
-        <li><b>40%</b><span>פחות ביטולים ואי שביעות רצון</span></li>
-        <li><b>20%</b><span>ייעול כוח אדם (יותר עבודה, פחות אנשים)</span></li>
-        <li><b>50%</b><span>צמצום בזמנים, תפעול מהיר יותר</span></li>
-        <li><b>20%</b><span>עלייה ברווחיות</span></li>
+        <li><b>30</b><span>עובדים בשבעה אגפים</span></li>
+        <li><b>116</b><span>סטטוסים ב-16 שלבים בתהליך ההזמנה</span></li>
+        <li><b>20</b><span>סוגי סוכני AI</span></li>
+        <li><b>43</b><span>מסכים במערכת ה-AI</span></li>
+        <li><b>18,119</b><span>מוצרים קיבלו מדבקת ברקוד, בלי אף כשל</span></li>
       </ul>
       <a class="btn" href="case-study">לסיפור המלא</a>
     </article>
@@ -201,18 +201,17 @@
       <p class="label">שותפים עסקיים</p>
       <h2 class="display">שותפים עסקיים ומשפחה שהתאגדה לה עם השנים</h2>
     </div>
-    <img src="integrations.webp" alt="לוגואים של שותפים עסקיים ומערכות שאני מתממשק אליהן: סליקה, הנהלת חשבונות, טלפוניה, דיוור, שילוח ועוד" width="1500" height="1406" loading="lazy">
+    <img src="integrations.webp" alt="לוגואים של שותפים עסקיים ומערכות שאני עובד איתן: AI, אוטומציה, סליקה, הנהלת חשבונות, טלפוניה, דיוור, שילוח ועוד" width="1500" height="1590" loading="lazy">
   </div>
 </section>
 <section class="section on-ink" id="contact">
-  <span class="deco" aria-hidden="true" data-parallax="0.1" style="--x:3%;--y:3rem;--w:3rem"><svg class="iso cube" viewBox="0 0 18 20" aria-hidden="true"><polygon points="1.2,5.5 9.0,10.0 9.0,19.0 1.2,14.5" style="fill:var(--coral-2)"/><polygon points="16.8,5.5 9.0,10.0 9.0,19.0 16.8,14.5" style="fill:var(--coral-3)"/><polygon points="9.0,1.0 16.8,5.5 9.0,10.0 1.2,5.5" style="fill:var(--coral-1)"/></svg></span>
   <div class="wrap contact">
     <div class="section-head">
       <p class="label">צור קשר</p>
       <h2 class="display">נדבר עם קפה ביד?</h2>
       <p>לייעוץ ראשוני חינם, תשאירו לי פרטים כאן. אפשר גם לתאם שיחה ישר ביומן שלי.</p>
       <div class="links">
-        <a class="plain" href="https://calendly.com/subk/intro-call" data-calendly rel="noopener">לתיאום שיחה ביומן</a>
+        <a class="plain primary" href="https://calendly.com/subk/intro-call" data-calendly rel="noopener">לתיאום שיחה ביומן</a>
         <a class="plain" href="liron-bialkovich-portfolio.pdf" data-portfolio>הפורטפוליו שלי</a>
         <a class="plain" href="https://www.linkedin.com/in/liron-bialkovich-2508a286" rel="me noopener">LinkedIn <span aria-hidden="true">↖</span></a>
       </div>

diff --git a/style.css b/style.css
@@ -20,6 +20,8 @@
   --coral-1: #f8a09b;
   --coral-2: #ea7c77;
   --coral-3: #d95d58;
+  --mint-ink: #0a6b43;
+  --coral-ink: #a8322d;
   --inkb-1: #3a455c;
   --inkb-2: #232c40;
   --inkb-3: #0e1420;
@@ -168,16 +170,16 @@ a:focus-visible, button:focus-visible, input:focus-visible, textarea:focus-visib
 .integrations img { border: var(--rule); background: var(--surface); padding: clamp(0.75rem, 3vw, 2rem); width: 100%; }
 
 .contact { display: grid; grid-template-columns: minmax(0, 1fr) minmax(0, 1.2fr); gap: clamp(2rem, 6vw, 5rem); align-items: start; }
-.form { display: grid; grid-template-columns: repeat(2, minmax(0, 1fr)); gap: 1rem; }
+.form { display: grid; grid-template-columns: repeat(2, minmax(0, 1fr)); gap: 1rem; background: var(--paper); color: var(--ink); border: 1.5px solid var(--on-ink); padding: clamp(1.25rem, 3vw, 2rem); box-shadow: -10px 10px 0 var(--sky-2); margin-inline-start: 10px; }
 .field { display: grid; gap: 0.375rem; }
 .field.full { grid-column: 1 / -1; }
 .field label { font-size: 0.9375rem; font-weight: 600; }
 .field input, .field textarea { font: inherit; color: var(--ink); background: var(--surface); border: var(--rule); border-radius: 0; padding: 0.75rem 0.875rem; width: 100%; }
-.form .btn { justify-self: start; background: var(--sky-1); color: var(--ink); box-shadow: -4px 4px 0 var(--on-ink); }
-.form .btn:hover { box-shadow: -2px 2px 0 var(--on-ink); }
+.form .btn { justify-self: start; }
 .form-status { grid-column: 1 / -1; font-weight: 600; }
-.form-status[data-state="ok"] { color: var(--mint-1); }
-.form-status[data-state="error"] { color: var(--coral-1); }
+.form-status:empty { display: none; }
+.form-status[data-state="ok"] { color: var(--mint-ink); }
+.form-status[data-state="error"] { color: var(--coral-ink); }
 .profiles { display: flex; flex-wrap: wrap; gap: 0.625rem; }
 .profiles a { display: inline-flex; gap: 0.75rem; padding: 0.5rem 0.875rem; border: 1.5px solid var(--on-ink); font-family: var(--font-mono); font-weight: 500; font-size: 0.9375rem; text-decoration: none; }
 .profiles a:hover { background: var(--on-ink); color: var(--ink); }
@@ -193,10 +195,23 @@ a:focus-visible, button:focus-visible, input:focus-visible, textarea:focus-visib
 .section, .hero, .page-hero { position: relative; overflow: hidden; }
 .deco { position: absolute; top: var(--y); inset-inline-end: var(--x); width: var(--w, 3.5rem); pointer-events: none; }
 .deco svg { width: 100%; }
-.stats.light .stat:nth-child(1) b { color: var(--sky-3); }
-.stats.light .stat:nth-child(2) b { color: var(--mint-3); }
-.stat .gift { width: clamp(5rem, 12vw, 7.5rem); margin-top: -0.5rem; }
+@media (max-width: 68rem) { .deco { display: none; } }
+/* Loyalty tiles: three equal cards, each with a figure row of the same height */
+.stats.light { gap: 1.5rem; padding-inline-start: 8px; }
+.stats.light .stat { gap: 1rem; border: var(--rule); background: var(--paper); padding: 1.5rem; box-shadow: -8px 8px 0 var(--sky-2); }
+.stats.light .stat:nth-child(2) { box-shadow: -8px 8px 0 var(--mint-2); }
+.stats.light .stat:nth-child(3) { box-shadow: -8px 8px 0 var(--coral-2); }
+.stats.light .figure { display: flex; align-items: flex-end; gap: 0.75rem; height: 5.5rem; }
+.stats.light .figure b { font-size: 5.5rem; line-height: 0.82; color: var(--ink); }
+.stats.light .figure small { font-size: 1.125rem; font-weight: 700; line-height: 1.2; padding-bottom: 0.125rem; }
+.stats.light .figure img { height: 100%; width: auto; mix-blend-mode: multiply; }
+.stats.light .stat > span { font-size: 1.0625rem; }
 .links { display: flex; flex-wrap: wrap; gap: 0.75rem 1rem; align-items: center; }
+.contact .links { display: grid; grid-template-columns: repeat(2, minmax(0, 1fr)); width: 100%; max-width: 26rem; }
+.contact .links a.primary { grid-column: 1 / -1; }
+.contact .links a.plain { justify-content: center; text-align: center; }
+.on-ink .links a.primary { background: var(--on-ink); color: var(--ink); border-color: var(--on-ink); }
+.on-ink .links a.primary:hover { background: var(--sky-1); border-color: var(--sky-1); }
 .links a.plain { display: inline-flex; gap: 0.5rem; padding: 0.625rem 1rem; border: 1.5px solid currentColor; font-weight: 600; text-decoration: none; }
 .links a.plain:hover { background: var(--ink); color: var(--on-ink); border-color: var(--ink); }
 .on-ink .links a.plain:hover { background: var(--on-ink); color: var(--ink); border-color: var(--on-ink); }
@@ -225,6 +240,8 @@ a:focus-visible, button:focus-visible, input:focus-visible, textarea:focus-visib
 /* Inner pages */
 .page-hero .wrap { display: grid; gap: 1.25rem; justify-items: start; padding-block: clamp(2.5rem, 7vw, 5rem); }
 .page-hero h1 { font-size: clamp(2.5rem, 7vw, 4.75rem); }
+.page-hero .split h1 { font-size: clamp(2rem, 4.6vw, 3.25rem); line-height: 1.1; }
+.page-hero .split { width: 100%; }
 .person .wrap { grid-template-columns: minmax(0, 1.25fr) minmax(0, 0.75fr); gap: clamp(2rem, 6vw, 5rem); align-items: center; }
 .person h1 { font-size: clamp(3rem, 9vw, 6rem); }
 .person h1 .en { display: block; text-align: right; margin-top: 1rem; font-family: var(--font-mono); font-weight: 500; font-size: clamp(0.9375rem, 2.2vw, 1.375rem); letter-spacing: 0.14em; text-transform: uppercase; color: var(--sky-ink); }

diff --git a/liron-bialkovich.html b/liron-bialkovich.html
@@ -50,7 +50,7 @@
       <p class="chip">יועץ ומפתח עצמאי: CRM, AI ואוטומציה</p>
       <p class="lead">לירון ביאלקוביץ הוא יועץ ומפתח עצמאי שבונה לחברות מערכות AI, אוטומציות ומערכות CRM. <span class="nb">ב-L-Be</span> הוא מאפיין, מקים ומטמיע מערכות CRM, פתרונות AI ותהליכים אוטומטיים.</p>
       <div class="links">
-        <a class="plain" href="https://calendly.com/subk/intro-call" data-calendly rel="noopener">לתיאום שיחה ביומן</a>
+        <a class="plain primary" href="https://calendly.com/subk/intro-call" data-calendly rel="noopener">לתיאום שיחה ביומן</a>
         <a class="plain" href="liron-bialkovich-portfolio.pdf" data-portfolio>הפורטפוליו שלי</a>
         <a class="plain" href="https://www.linkedin.com/in/liron-bialkovich-2508a286" rel="me noopener">LinkedIn <span aria-hidden="true">↖</span></a>
       </div>
